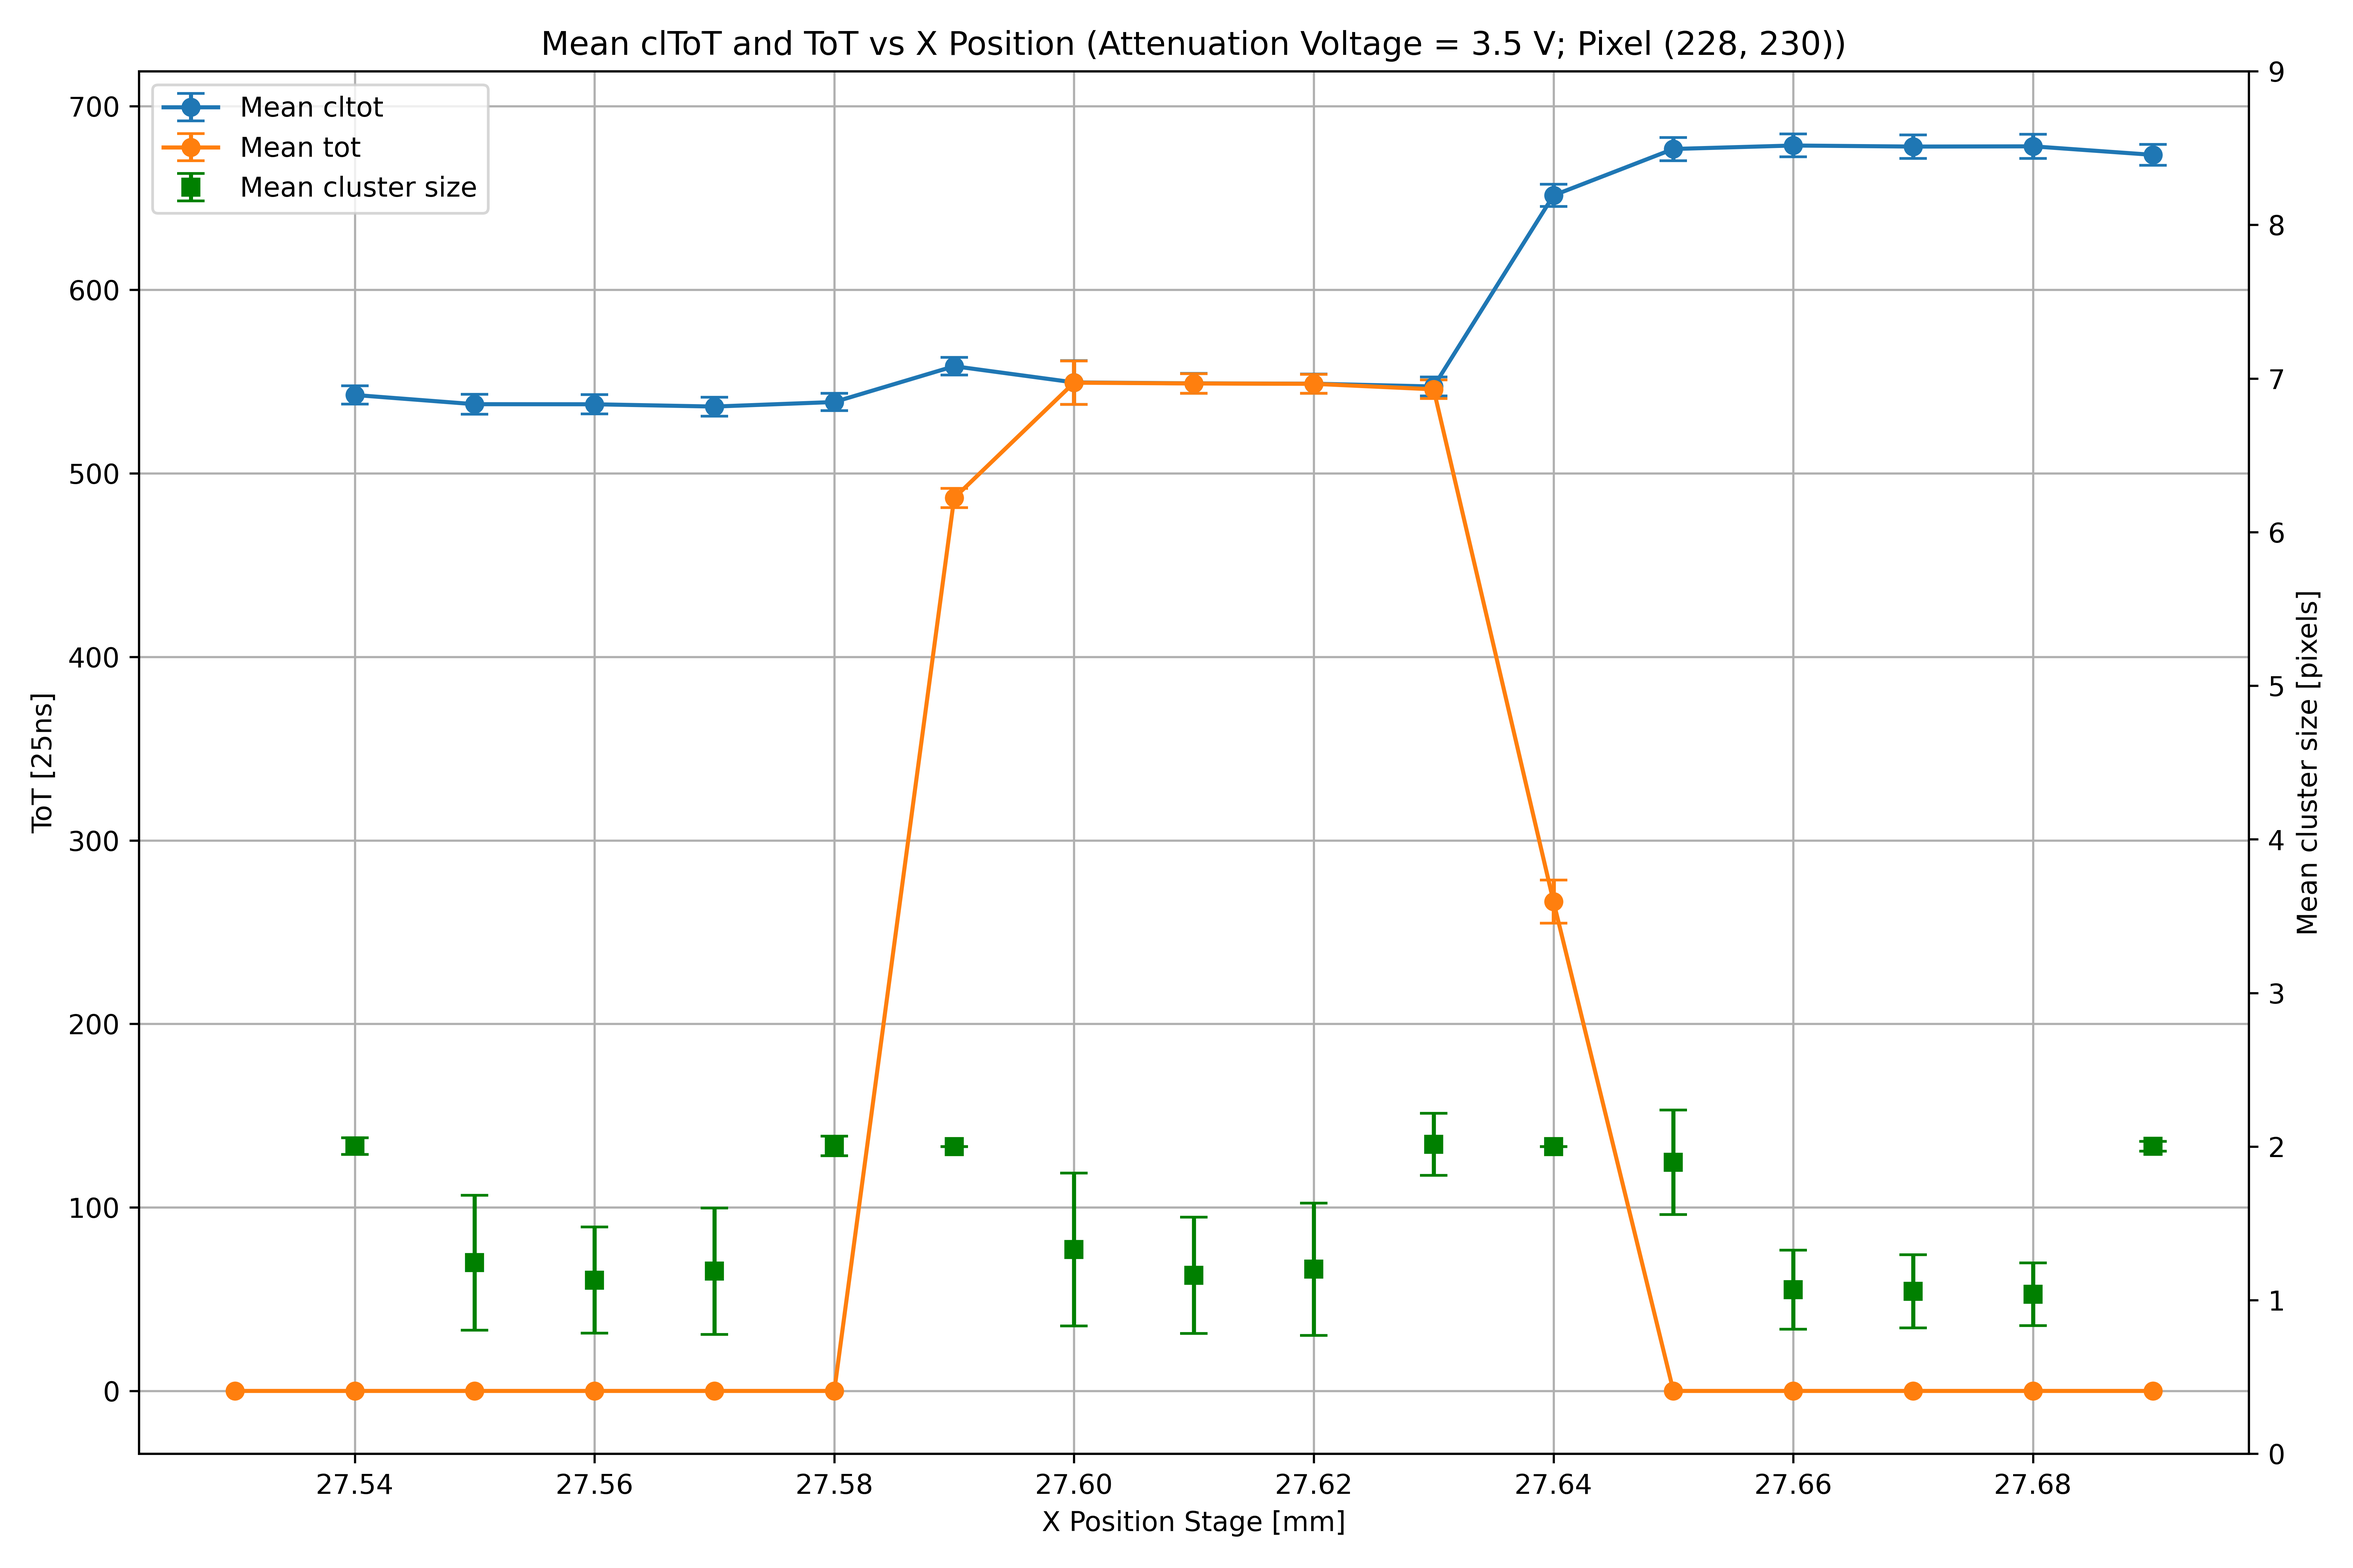
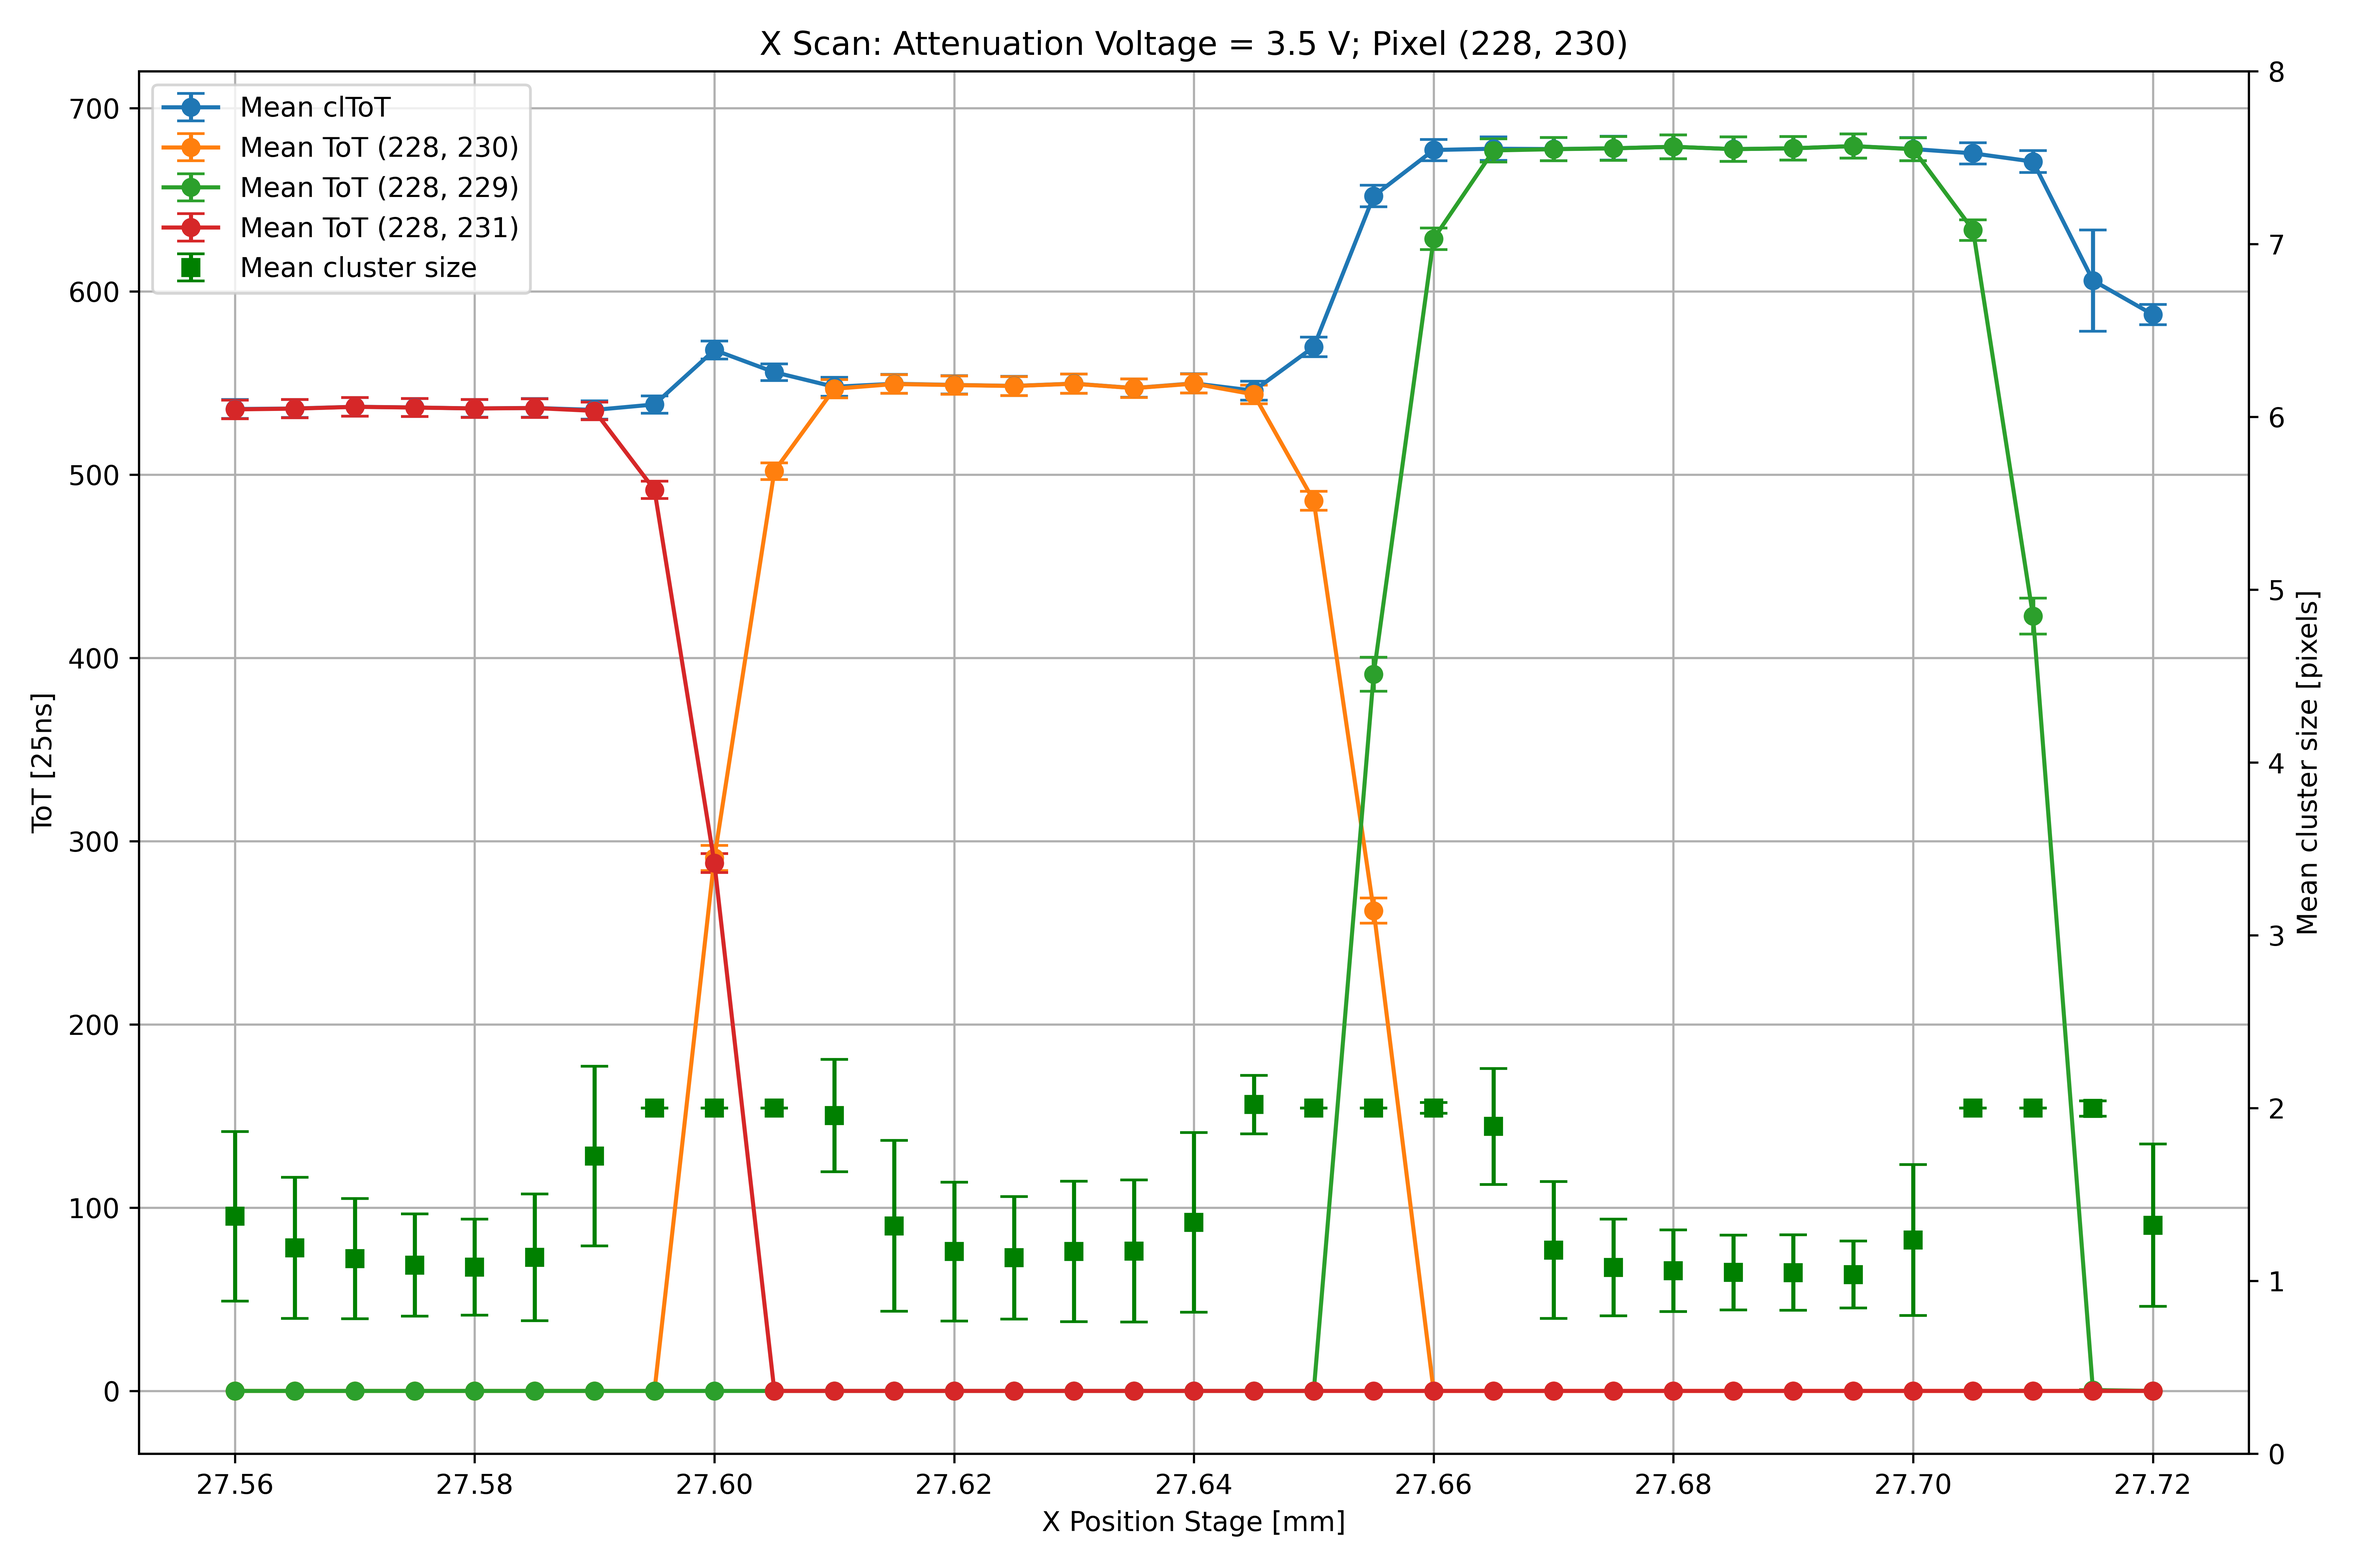
Refactor code structure for improved readability and maintainability

diff --git a/ProcessFocus.py b/ProcessFocus.py
@@ -4,7 +4,7 @@ import matplotlib.pyplot as plt
 import numpy as np
 from HelperFunctions import parse_list
 
-AttenuationVoltage = 3.5
+AttenuationVoltage = 3.6
 ROW = 230
 COL = 228
 LIMIT = 1000
@@ -58,18 +58,69 @@ def process_folder(folder_path: str, r: str):
 
     if r == "x":
         # Include the target pixel and its immediate neighbors in the row direction
-        mask = (
-            df_exp["row"].isin([ROW, ROW + 1, ROW - 1])
-        ) & (df_exp["col"] == COL)
+        mask = (df_exp["row"].isin([ROW, ROW + 1, ROW - 1, ROW - 2, ROW + 2])) & (
+            df_exp["col"] == COL
+        )
         df_filtered_cl_cs = df_exp[mask].copy()
+        df_row_next = df_exp[(df_exp["row"] == ROW + 1) & (df_exp["col"] == COL)].copy()
+        df_row_prev = df_exp[(df_exp["row"] == ROW - 1) & (df_exp["col"] == COL)].copy()
+        df_mean_next_under = df_row_next[df_row_next["tot"] < LIMIT]
+        df_mean_next_in = df_mean_next_under[df_mean_next_under["tot"] > 0]
+        df_mean_next = df_mean_next_in.groupby(["row", "col"]).mean().reset_index()
+        df_mean_next = df_mean_next.sort_values("tot", ascending=False)
+
+        df_mean_prev_under = df_row_prev[df_row_prev["tot"] < LIMIT]
+        df_mean_prev_in = df_mean_prev_under[df_mean_prev_under["tot"] > 0]
+        df_mean_prev = df_mean_prev_in.groupby(["row", "col"]).mean().reset_index()
+        df_mean_prev = df_mean_prev.sort_values("tot", ascending=False)
+
+        std_tot_next = df_row_next["tot"].std()
+        std_tot_prev = df_row_prev["tot"].std()
+
+        if not df_mean_next.empty:
+            max_tot_next = df_mean_next["tot"].iloc[0]
+        else:
+            max_tot_next = 0
+        if not df_mean_prev.empty:
+            max_tot_prev = df_mean_prev["tot"].iloc[0]
+        else:
+            max_tot_prev = 0
+
     elif r == "y":
         # Include the target pixel and its immediate neighbors in the column direction
-        mask = (
-            df_exp["col"].isin([COL, COL + 1, COL - 1])
-        ) & (df_exp["row"] == ROW)
+        mask = (df_exp["col"].isin([COL, COL + 1, COL - 1, COL - 2, COL + 2])) & (
+            df_exp["row"] == ROW
+        )
         df_filtered_cl_cs = df_exp[mask].copy()
+        df_col_next = df_exp[(df_exp["row"] == ROW) & (df_exp["col"] == COL + 1)].copy()
+        df_col_prev = df_exp[(df_exp["row"] == ROW) & (df_exp["col"] == COL - 1)].copy()
+        df_mean_next_under = df_col_next[df_col_next["tot"] < LIMIT]
+        df_mean_next_in = df_mean_next_under[df_mean_next_under["tot"] > 0]
+        df_mean_next = df_mean_next_in.groupby(["row", "col"]).mean().reset_index()
+        df_mean_next = df_mean_next.sort_values("tot", ascending=False)
+        df_mean_prev_under = df_col_prev[df_col_prev["tot"] < LIMIT]
+        df_mean_prev_in = df_mean_prev_under[df_mean_prev_under["tot"] > 0]
+        df_mean_prev = df_mean_prev_in.groupby(["row", "col"]).mean().reset_index()
+        df_mean_prev = df_mean_prev.sort_values("tot", ascending=False)
+
+        std_tot_next = df_col_next["tot"].std()
+        std_tot_prev = df_col_prev["tot"].std()
+        if not df_mean_next.empty:
+            max_tot_next = df_mean_next["tot"].iloc[0]
+        else:
+            max_tot_next = 0
+
+        if not df_mean_prev.empty:
+            max_tot_prev = df_mean_prev["tot"].iloc[0]
+        else:
+            max_tot_prev = 0
+
     else:
         df_filtered_cl_cs = df_filtered.copy()
+        max_tot_next = 0
+        max_tot_prev = 0
+        std_tot_next = 0
+        std_tot_prev = 0
 
     df_cl_under_limit = df_filtered_cl_cs[df_filtered_cl_cs["cltot"] < LIMIT]
     mean_cl = df_cl_under_limit["cltot"].mean()
@@ -84,27 +135,38 @@ def process_folder(folder_path: str, r: str):
     df_under_limit = df_filtered[df_filtered["tot"] < LIMIT]
     df_in_limit = df_under_limit[df_under_limit["tot"] > 0]
     df_mean = df_in_limit.groupby(["row", "col"]).mean().reset_index()
-    # Sort by ToT descending if desired
     df_mean = df_mean.sort_values("tot", ascending=False)
 
     df_mean.to_csv(
-        f"Data/{r.capitalize()}Focus/ProcessedFocus {AttenuationVoltage} V/tot_{height_num}.csv",
+        f"Data/Focus/{r.capitalize()}/ProcessedFocus {AttenuationVoltage} V/tot_{height_num}.csv",
         index=False,
     )
     # Determine max_tot for target pixel, or NaN if not present
-    if not df_filtered.empty:
+    if not df_filtered.empty and not df_mean.empty:
         max_tot = df_mean["tot"].iloc[0]
     else:
         max_tot = 0
 
     ref_tot_series = df_filtered["tot"]
     std_tot = ref_tot_series.std()
-    return height_num2, mean_cl, std_cl, max_tot, std_tot, mean_cs, std_cs
+    return (
+        height_num2,
+        mean_cl,
+        std_cl,
+        max_tot,
+        std_tot,
+        mean_cs,
+        std_cs,
+        max_tot_next,
+        max_tot_prev,
+        std_tot_next,
+        std_tot_prev,
+    )
 
 
 def ZScanPlot(r: str):
     df = pd.read_csv(
-        f"Data/{r.capitalize()}Focus/ProcessedFocus {AttenuationVoltage} V/Results.csv"
+        f"Data/Focus/{r.capitalize()}/ProcessedFocus {AttenuationVoltage} V/Results.csv"
     )
 
     fig, ax = plt.subplots(figsize=(12, 8))
@@ -118,7 +180,7 @@ def ZScanPlot(r: str):
         marker="o",
         linestyle="-",
         capsize=5,
-        label="Mean cltot",
+        label="Mean clToT",
     )
     ax.errorbar(
         df["height"],
@@ -127,8 +189,46 @@ def ZScanPlot(r: str):
         marker="o",
         linestyle="-",
         capsize=5,
-        label="Mean tot",
+        label=f"Mean ToT ({COL}, {ROW})",
     )
+    if r == "x":
+        ax.errorbar(
+            df["height"],
+            df["max_tot_prev"],
+            yerr=df["std_tot_prev"],
+            marker="o",
+            linestyle="-",
+            capsize=5,
+            label=f"Mean ToT ({COL}, {ROW - 1})",
+        )
+        ax.errorbar(
+            df["height"],
+            df["max_tot_next"],
+            yerr=df["std_tot_next"],
+            marker="o",
+            linestyle="-",
+            capsize=5,
+            label=f"Mean ToT ({COL}, {ROW + 1})",
+        )
+    elif r == "y":
+        ax.errorbar(
+            df["height"],
+            df["max_tot_prev"],
+            yerr=df["std_tot_prev"],
+            marker="o",
+            linestyle="-",
+            capsize=5,
+            label=f"Mean ToT ({COL - 1}, {ROW})",
+        )
+        ax.errorbar(
+            df["height"],
+            df["max_tot_next"],
+            yerr=df["std_tot_next"],
+            marker="o",
+            linestyle="-",
+            capsize=5,
+            label=f"Mean ToT ({COL + 1}, {ROW})",
+        )
     ax2.errorbar(
         df["height"],
         df["mean_clustersize"],
@@ -140,9 +240,9 @@ def ZScanPlot(r: str):
         label="Mean cluster size",
     )
     # fix right axis limits and align tick count with dynamic left ToT limits
-    ax2.set_ylim(0, 9)
+    ax2.set_ylim(0, 8)
     if r == "z":
-        ax2.set_ylim(1, 9)
+        ax2.set_ylim(0, 8)
         # determine number of ticks on cluster size axis
         num_ticks = len(ax2.get_yticks())
         # dynamic ToT axis limits rounded to nearest 100
@@ -172,7 +272,7 @@ def ZScanPlot(r: str):
     ax.set_xlabel(f"{r.capitalize()} Position Stage [mm]")
     ax.set_ylabel("ToT [25ns]")
     ax.set_title(
-        f"Mean clToT and ToT vs {r.capitalize()} Position (Attenuation Voltage = {AttenuationVoltage} V; Pixel ({COL}, {ROW}))"
+        f"{r.capitalize()} Scan: Attenuation Voltage = {AttenuationVoltage} V; Pixel ({COL}, {ROW})"
     )
     lines, labels = ax.get_legend_handles_labels()
     lines2, labels2 = ax2.get_legend_handles_labels()
@@ -184,8 +284,12 @@ def ZScanPlot(r: str):
 
 
 def ProcessFiles(r: str):
-    data_root = f"Data/{r.capitalize()}Focus/Focus {AttenuationVoltage} V"
+    data_root = (
+        f"Data/Focus/{r.capitalize()}/{r.capitalize()}Focus {AttenuationVoltage} V"
+    )
     results = []
+    output_dir = f"Data/Focus/{r.capitalize()}/ProcessedFocus {AttenuationVoltage} V"
+    os.makedirs(output_dir, exist_ok=True)
     for d in os.listdir(data_root):
         if d.startswith("focus_"):
             result = process_folder(os.path.join(data_root, d), r)
@@ -202,15 +306,19 @@ def ProcessFiles(r: str):
             "std_tottarget",
             "mean_clustersize",
             "std_clustersize",
+            "max_tot_next",
+            "max_tot_prev",
+            "std_tot_next",
+            "std_tot_prev",
         ],
     )
     df_results = df_results.sort_values("height")
     df_results.to_csv(
-        f"Data/{r.capitalize()}Focus/ProcessedFocus {AttenuationVoltage} V/Results.csv",
+        f"Data/Focus/{r.capitalize()}/ProcessedFocus {AttenuationVoltage} V/Results.csv",
         index=False,
     )
 
 
 if __name__ == "__main__":
-    ProcessFiles("x")
-    ZScanPlot("x")
+    ProcessFiles("z")
+    ZScanPlot("z")

diff --git a/LaserPower.py b/LaserPower.py
@@ -7,7 +7,7 @@ def main_plot(filepath):
     df = pd.read_csv(filepath)
     # plt.figure(figsize=(14, 8))
     plt.plot(df["V"], df["power"], linestyle="-", marker="o", color="blue", label="Power")
-    plt.xticks(np.arange(0, 5, 1))
+    # plt.xticks(np.arange(0, 5, 1))
     plt.xlabel("Attenuation Voltage [V]")
     plt.ylabel("Power [$\mu$W]")
     # plt.title("Power vs Voltage")
